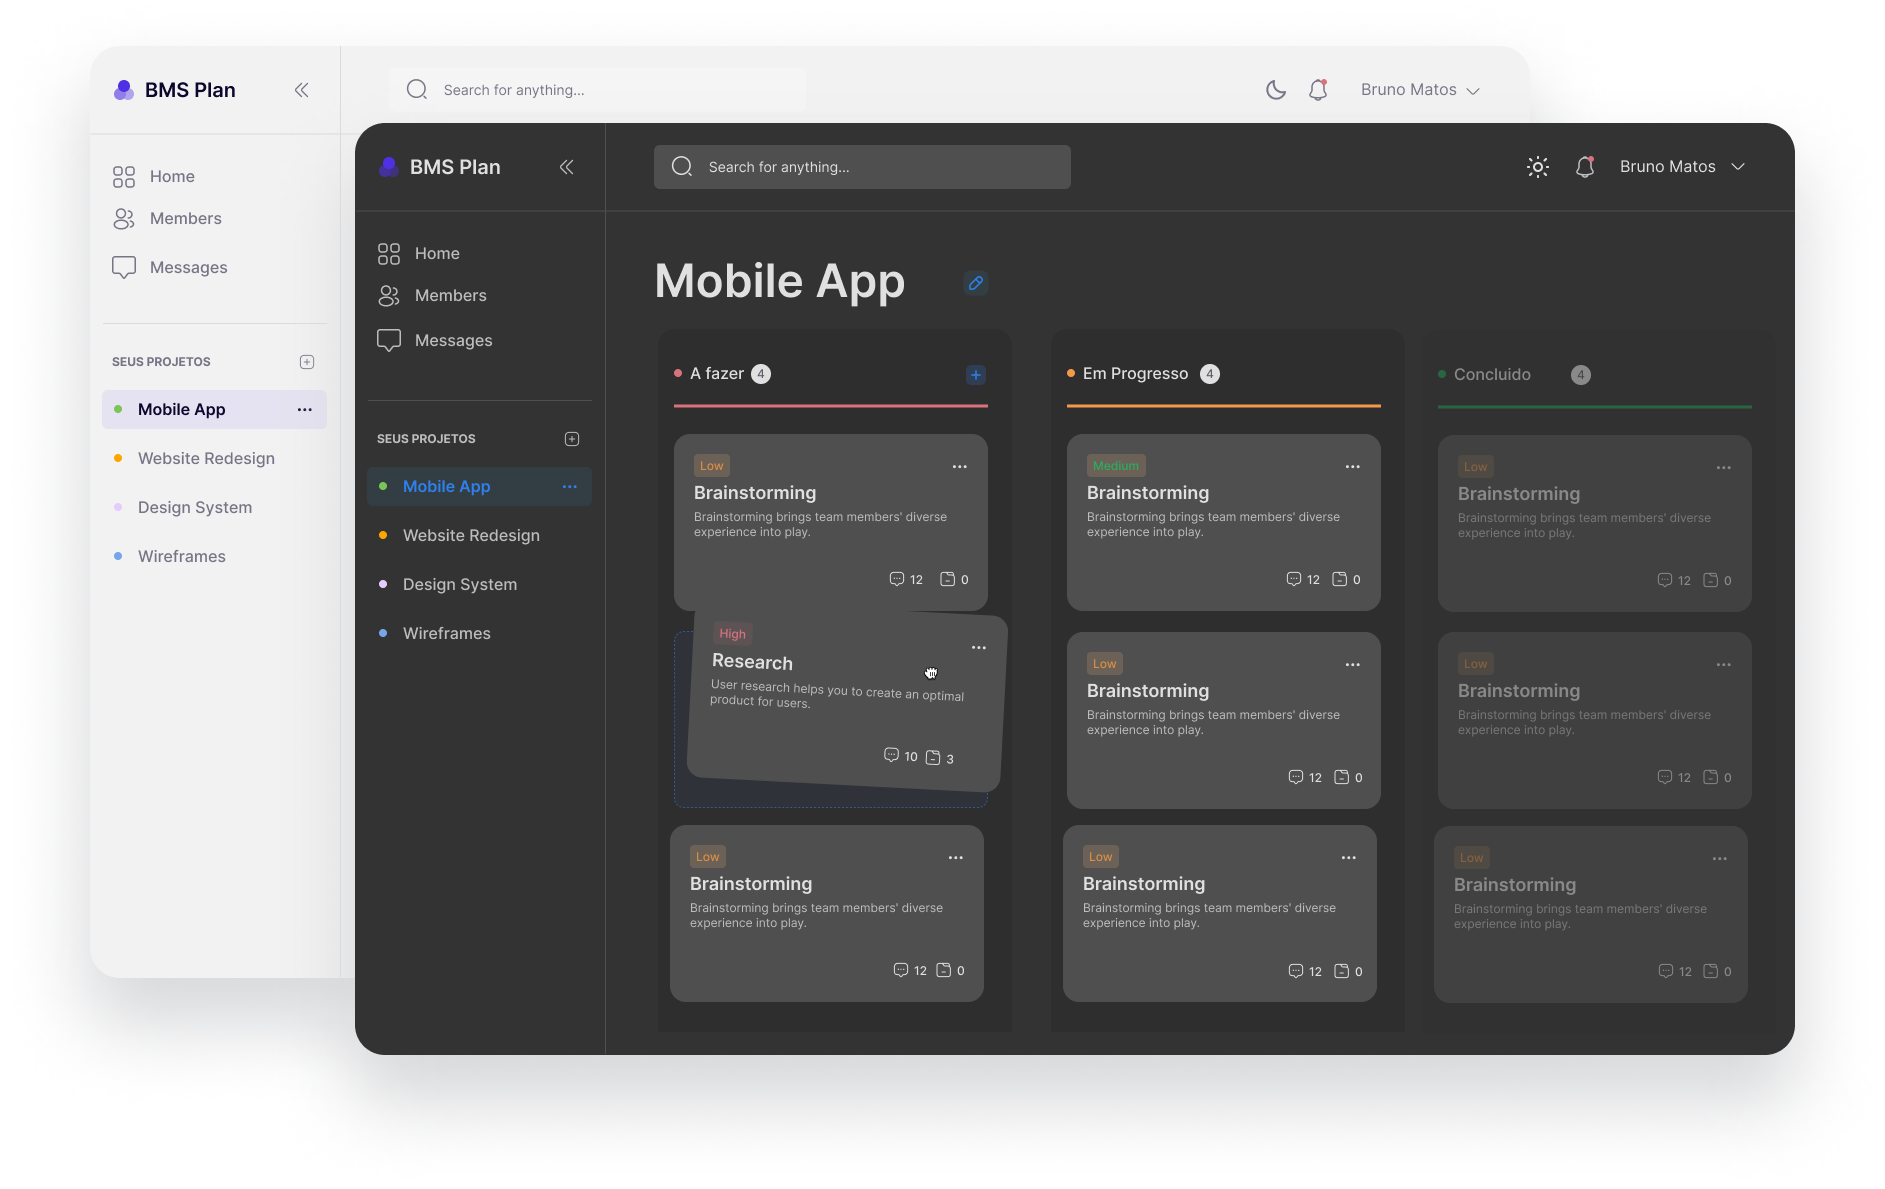
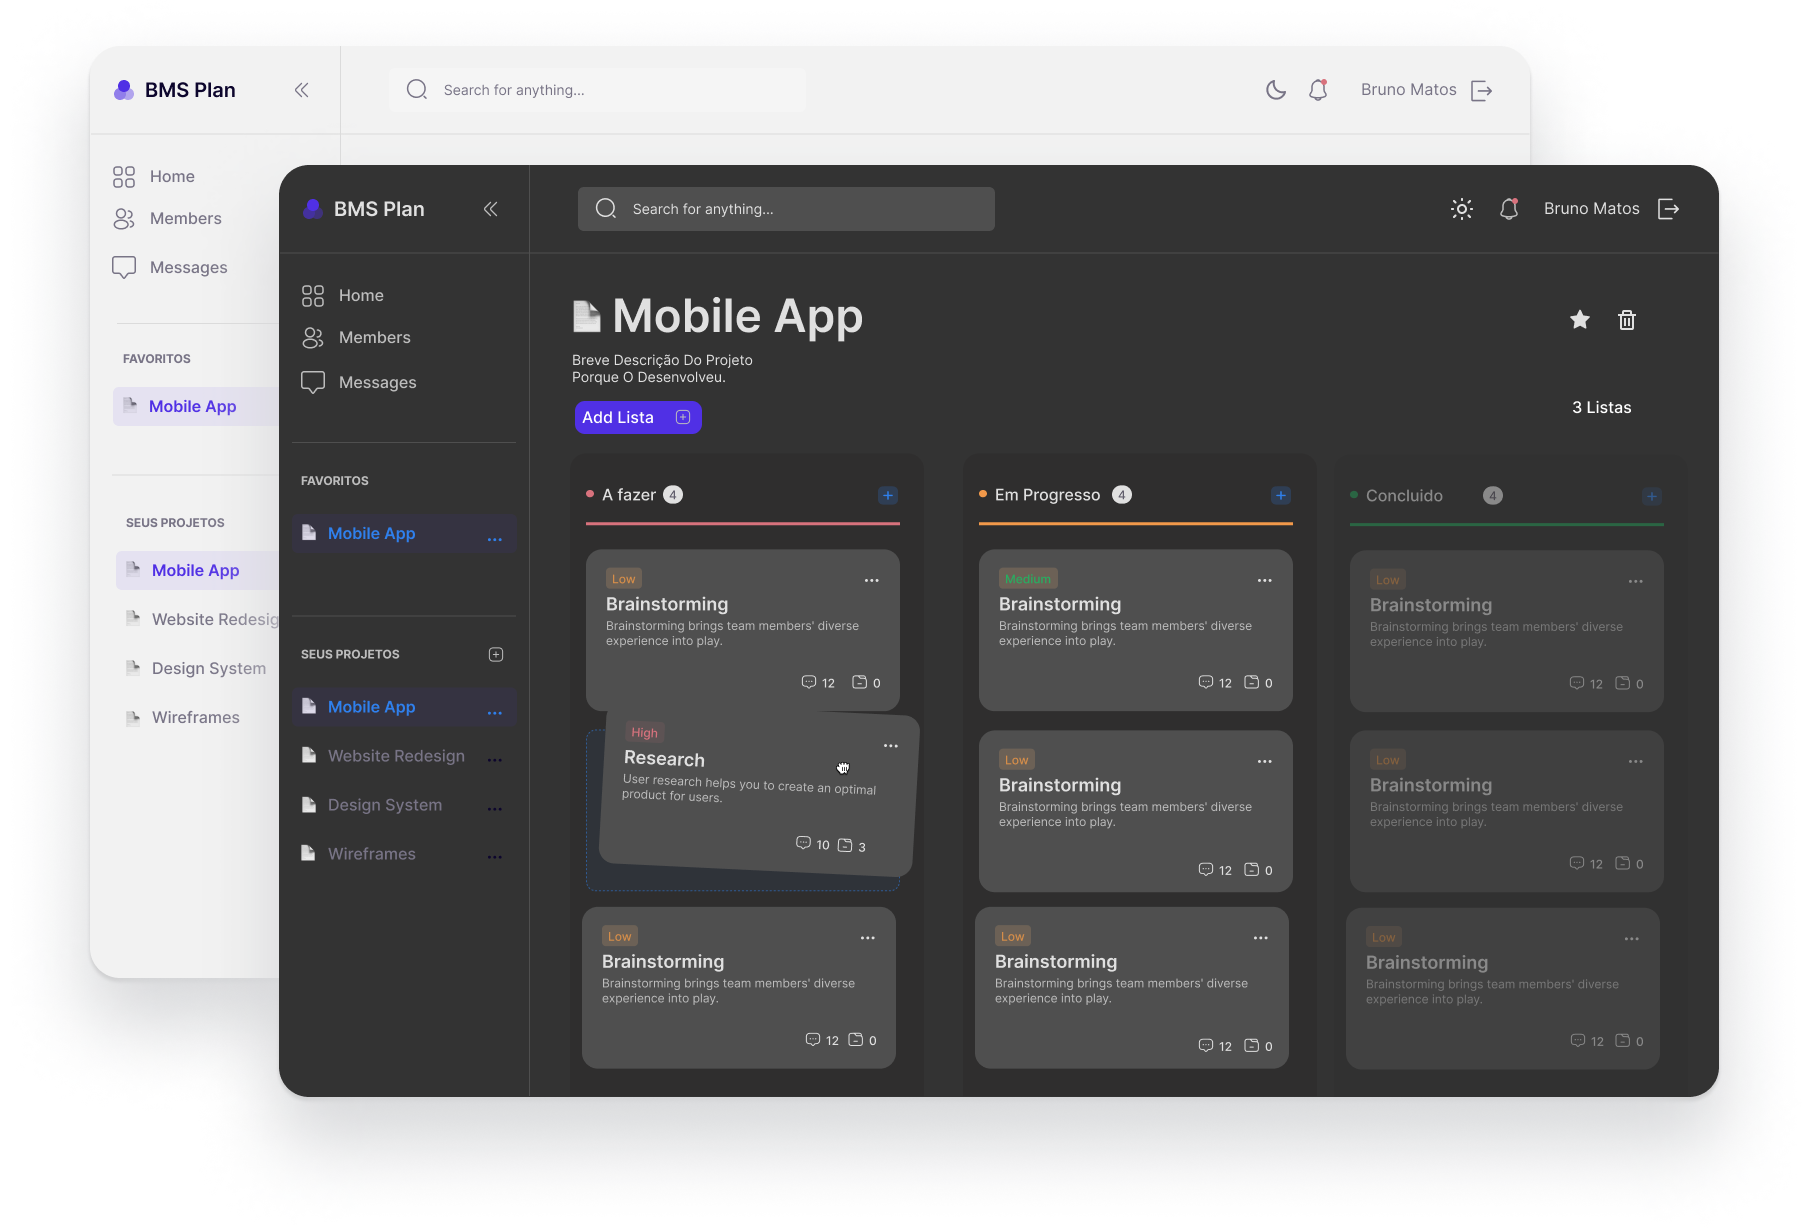
redux e logout

diff --git a/client/src/components/Sidebar/styles.js b/client/src/components/Sidebar/styles.js
@@ -66,6 +66,43 @@ export const ProjetosTitleContainer = styled.div`
   }
 `
 
+export const FavoritoWrapper = styled.div`
+  width: 100%;
+  margin-top: 1rem;
+  section {
+    display: flex;
+    flex-direction: column;
+    gap: 1rem;
+    button {
+      display: flex;
+      text-align: left;
+      align-items: center;
+      justify-content: space-between;
+      border: none;
+      border-radius: 0.37rem;
+      padding-left: 0.5rem;
+      padding-right: 0.25rem;
+      padding-bottom: 0.25rem;
+      margin-bottom: 1rem;
+      cursor: pointer;
+      color: ${({ theme }) => theme.primary};
+      background: none;
+      font-size: 1rem;
+      transition: 1s all;
+      overflow: hidden;
+
+      &:hover {
+        color: ${({ theme }) => theme.icon};
+        background: rgb(153, 102, 255, 0.2);
+      }
+      span {
+        font-size: 1rem;
+        margin-right: 0.5rem;
+      }
+    }
+  }
+`
+
 export const ProjetosWrapper = styled.div`
   width: 100%;
   margin-top: 1rem;
@@ -91,25 +128,15 @@ export const ProjetosWrapper = styled.div`
       overflow: hidden;
 
       &:hover {
-        color: ${({ theme }) => theme.secondery};
+        color: ${({ theme }) => theme.icon};
         background: rgb(153, 102, 255, 0.2);
       }
       span {
-        font-size: 1.5rem;
+        font-size: 1rem;
         margin-right: 0.5rem;
-      }
-      .red {
-        color: ${({ theme }) => theme.textPriorityHight};
-      }
-      .green {
-        color: ${({ theme }) => theme.textPriorityMedium};
-      }
-      .orange {
-        color: ${({ theme }) => theme.textPriorityLow};
-      }
-      .purple {
-        color: ${({ theme }) => theme.icon};
       }
     }
   }
 `
+
+

diff --git a/client/src/components/Sidebar/index.jsx b/client/src/components/Sidebar/index.jsx
@@ -3,6 +3,7 @@ import {
   SidebarContainer,
   ProjetosTitleContainer,
   ProjetosWrapper,
+  FavoritoWrapper,
 } from './styles'
 
 export function Sidebar() {
@@ -28,6 +29,21 @@ export function Sidebar() {
           </a>
         </li>
       </ul>
+      <ProjetosTitleContainer>
+        <header>
+          <h3>Favoritos</h3>
+        </header>
+        <FavoritoWrapper>
+          <section>
+            <button>
+              <div>
+                <span>📄</span>Mobile App
+              </div>
+              <span>...</span>
+            </button>
+          </section>
+        </FavoritoWrapper>
+      </ProjetosTitleContainer>
 
       <ProjetosTitleContainer>
         <header>
@@ -38,25 +54,25 @@ export function Sidebar() {
           <section>
             <button>
               <div>
-                <span className="red">•</span>Mobile App
+                <span>📄</span>Mobile App
               </div>
               <span>...</span>
             </button>
             <button>
               <div>
-                <span className="green">•</span>Website Redesign
+                <span>📄</span>Website Redesign
               </div>
               <span>...</span>
             </button>
             <button>
               <div>
-                <span className="orange">•</span>Design System
+                <span>📄</span>Design System
               </div>
               <span>...</span>
             </button>
             <button>
               <div>
-                <span className="purple">•</span>Wireframe
+                <span>📄</span>Wireframe
               </div>
               <span>...</span>
             </button>

diff --git a/client/src/components/Header/index.jsx b/client/src/components/Header/index.jsx
@@ -1,4 +1,6 @@
 import { useTheme } from '../../hooks/useTheme'
+import { useSelector, useDispatch} from 'react-redux'
+import { useNavigate } from 'react-router-dom'
 import {
   HeaderContainer,
   LogoWrapper,
@@ -10,14 +12,21 @@ import ImgLogo from './../../assets/logo.png'
 import {
   Bell,
   CaretDoubleLeft,
-  CaretDown,
   MagnifyingGlass,
   Moon,
+  SignOut,
   Sun,
 } from 'phosphor-react'
 
 export function Header() {
+  const user = useSelector((state) => state.user.value)
+  const navigate = useNavigate()
   const { currentTheme, setCurrentTheme } = useTheme()
+
+  function handleSignOut(){
+    localStorage.removeItem('token')
+    navigate('/login')
+  }
 
   return (
     <HeaderContainer>
@@ -61,9 +70,9 @@ export function Header() {
             <Bell size={20} />
           </button>
         </section>
-        <span>Bruno Matos</span>
-        <button>
-          <CaretDown size={20} />
+        <span>{user.name}</span>
+        <button onClick={handleSignOut}>
+          <SignOut size={20} />
         </button>
       </PerfilWrapper>
     </HeaderContainer>

diff --git a/client/src/layouts/DefaultLayout/index.jsx b/client/src/layouts/DefaultLayout/index.jsx
@@ -1,21 +1,25 @@
 import { useEffect, useState } from 'react'
 import { Outlet, useNavigate } from 'react-router-dom'
+import { useDispatch } from 'react-redux'
 import { Header } from '../../components/Header'
 import { Loading } from '../../components/Loading'
 import { Sidebar } from '../../components/Sidebar'
 import authUtils from '../../utils/authUtils'
 import { LayoutContainer, LayoutGrid } from './styles'
+import { setUser } from '../../redux/features/userSlice'
 
 export function DefaultLayout() {
   const navigate = useNavigate()
+  const dispatch = useDispatch()
   const [loading, setLoading] = useState(true)
 
   useEffect(() => {
     const checkAuth = async () => {
-      const isAuth = await authUtils.isAuthenticated()
-      if (!isAuth) {
+      const user = await authUtils.isAuthenticated()
+      if (!user) {
         navigate('/login')
       } else {
+        dispatch(setUser(user))
         setLoading(false)
       }
     }

diff --git a/client/src/Routes.jsx b/client/src/Routes.jsx
@@ -2,6 +2,7 @@ import { Route, Routes } from 'react-router-dom'
 import { AuthLayout } from './layouts/AuthLayout'
 import { DefaultLayout } from './layouts/DefaultLayout'
 import { Home } from './pages/Home'
+import { Boards } from './pages/Boards'
 import { Login } from './pages/Login'
 import { Members } from './pages/Members'
 import { Messeges } from './pages/Messeges'
@@ -16,8 +17,8 @@ export function Router() {
       </Route>
       <Route path="/" element={<DefaultLayout />}>
         <Route index element={<Home />} />
-        <Route path="boards" element={<Home />} />
-        <Route path="boards/:boardId" element={<Home />} />
+        <Route path="boards" element={<Boards />} />
+        <Route path="boards/:boardId" element={<Boards />} />
         <Route path="members" element={<Members />} />
         <Route path="messeges" element={<Messeges />} />
       </Route>

diff --git a/client/src/pages/Home/styles.js b/client/src/pages/Home/styles.js
@@ -1,3 +1,23 @@
 import styled from 'styled-components'
 
-export const HomeContainer = styled.div``
+export const HomeContainer = styled.div`
+display: flex;
+align-items: center;
+justify-content: center;
+width: 100%;
+height: 100%;
+
+> button {
+  padding: 1rem;
+  border-radius: 10px;
+  color: ${({ theme }) => theme.primary};
+  border: 1px solid ${({ theme }) => theme.border};
+  background-color: ${({ theme }) => theme.background};
+  transition: 0.2s all;
+
+  &:hover {
+  color: ${({ theme }) => theme.icon};
+  border: 1px solid ${({ theme }) => theme.icon};
+  }
+}
+`

diff --git a/client/src/main.jsx b/client/src/main.jsx
@@ -2,11 +2,13 @@ import React from 'react'
 import ReactDOM from 'react-dom/client'
 import { App } from './App'
 import { ThemeContextProvider } from './contexts/ThemeContext'
+import { Provider} from 'react-redux'
+import { store } from './redux/store'
 
 ReactDOM.createRoot(document.getElementById('root')).render(
-  <React.StrictMode>
+    <Provider store={store}>
     <ThemeContextProvider>
       <App />
     </ThemeContextProvider>
-  </React.StrictMode>
+    </Provider>
 )

diff --git a/client/src/components/Loading/styles.js b/client/src/components/Loading/styles.js
@@ -4,13 +4,14 @@ export const LoadingContainer = styled.div`
   display: flex;
   align-items: center;
   justify-content: center;
-  overflow: hidden;
-  width: 1.5rem;
-  height: 1.5rem;
+  width: 100%;
+  height: 100vh;
+
 
   svg {
-    width: 1rem;
-    height: 1rem;
+    width: 5rem;
+    height: 5rem;
+    color: ${({ theme }) => theme.primary};
     animation-name: spin;
     animation-duration: 1000ms;
     animation-iteration-count: infinite;

diff --git a/client/src/redux/features/userSlice.js b/client/src/redux/features/userSlice.js
@@ -1,0 +1,17 @@
+import { createSlice } from '@reduxjs/toolkit'
+
+const initialState = { value: {} }
+
+export const userSlice = createSlice({
+  name: 'user',
+  initialState,
+  reducers: {
+    setUser: (state, action) => {
+      state.value = action.payload
+    }
+  }
+})
+
+export const { setUser } = userSlice.actions
+
+export default userSlice.reducer

diff --git a/client/src/pages/Home/index.jsx b/client/src/pages/Home/index.jsx
@@ -1,7 +1,11 @@
+import { HomeContainer } from "./styles";
+
 export function Home() {
   return (
-    <div>
-      <h1>Mobile App</h1>
-    </div>
+    <HomeContainer>
+      <button>
+      <h1>Clique aqui para criar seu primeiro Planejamento!</h1>
+      </button>
+    </HomeContainer>
   )
 }

diff --git a/client/src/components/Loading/index.jsx b/client/src/components/Loading/index.jsx
@@ -4,7 +4,9 @@ import { LoadingContainer } from './styles'
 export function Loading() {
   return (
     <LoadingContainer>
+      <div>
       <CircleNotch weight="bold" />
+      </div>
     </LoadingContainer>
   )
 }

diff --git a/client/src/redux/store.js b/client/src/redux/store.js
@@ -1,0 +1,8 @@
+import {configureStore} from '@reduxjs/toolkit'
+import userReducer from './features/userSlice'
+
+export const store = configureStore({
+  reducer: {
+    user: userReducer
+  }
+})
